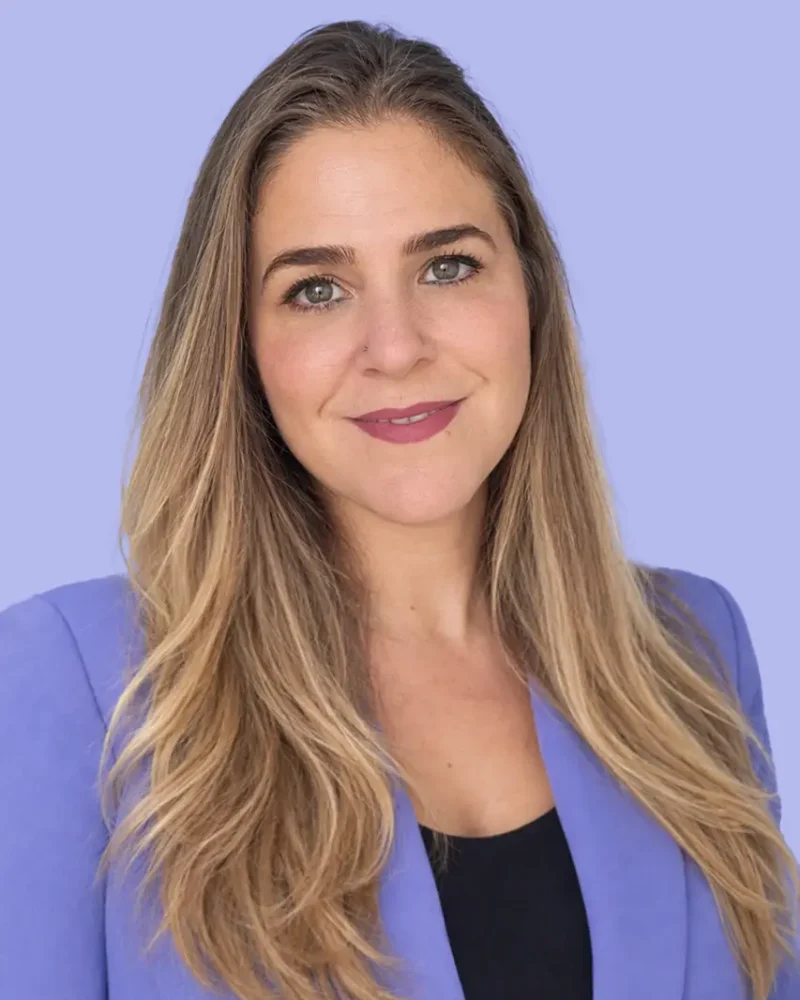
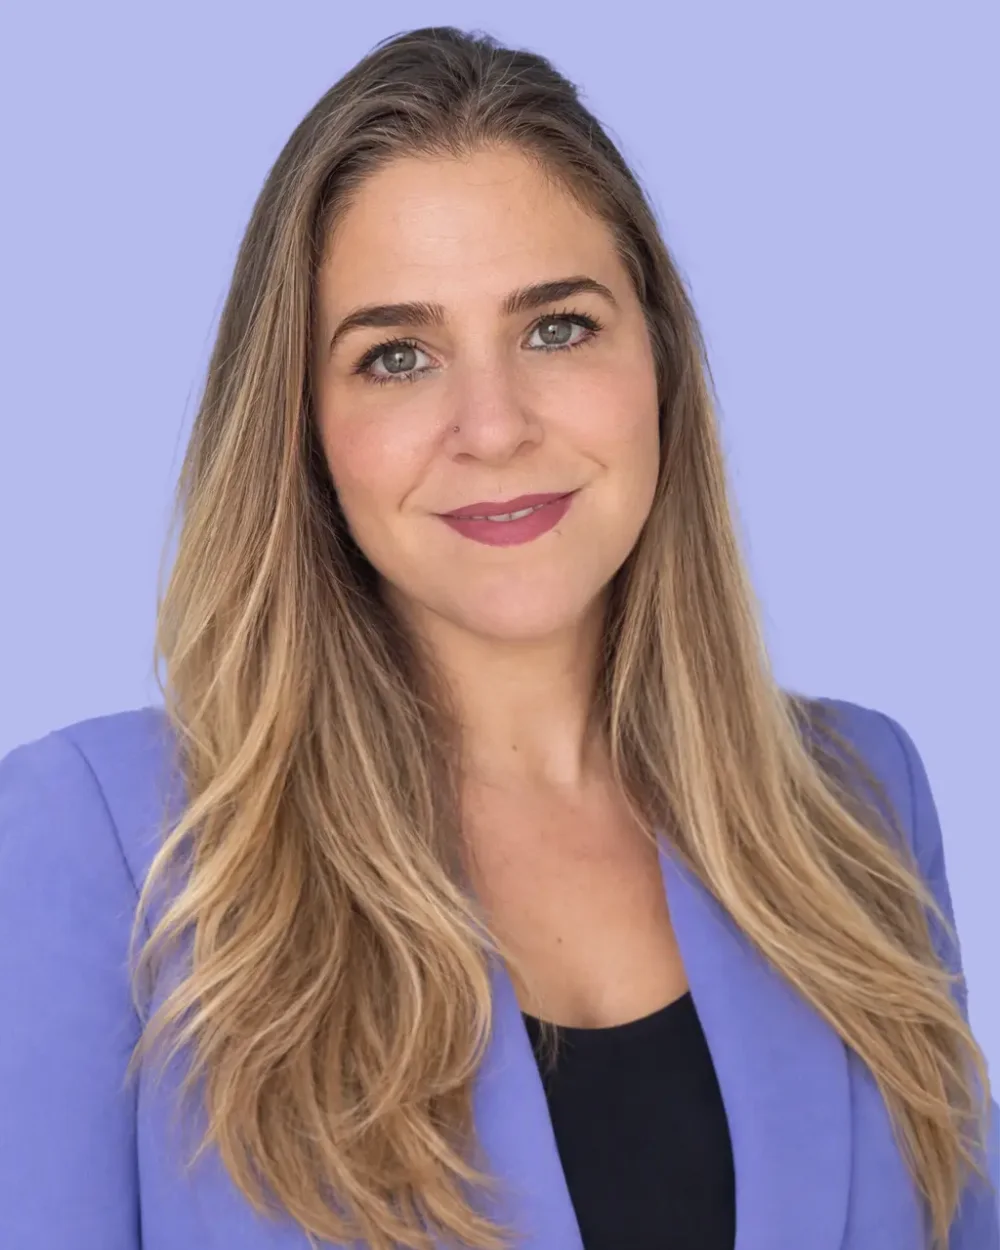
Actualiza la foto de perfil con la versión retocada

diff --git a/sobre-mi.html b/sobre-mi.html
@@ -44,7 +44,7 @@
 <main id="contenido">
 <!-- Presentación -->
   <section class="container about">
-    <img class="about__photo" src="img/marca/alexandra.webp" alt="Alexandra Ferrera, diseñadora y desarrolladora web de ALX Estudio Web, sonriendo con americana malva" width="800" height="1000">
+    <img class="about__photo" src="img/marca/alexandra.webp" alt="Alexandra Ferrera, diseñadora y desarrolladora web de ALX Estudio Web, sonriendo con americana malva" width="1000" height="1250">
     <div>
       <p class="eyebrow">Sobre mí</p>
       <h1>Soy Alexandra, la persona detrás de ALX Estudio Web.</h1>

diff --git a/index.html b/index.html
@@ -208,7 +208,7 @@
   <section class="section section--grey">
     <div class="container">
       <div class="about-short">
-        <img class="about-short__photo" src="img/marca/alexandra.webp" alt="Alexandra Ferrera, diseñadora y desarrolladora web" width="800" height="1000" loading="lazy">
+        <img class="about-short__photo" src="img/marca/alexandra.webp" alt="Alexandra Ferrera, diseñadora y desarrolladora web" width="1000" height="1250" loading="lazy">
         <div>
           <p class="eyebrow">Por qué trabajar conmigo</p>
           <h2>Hablas directamente con quien hace tu web.</h2>
